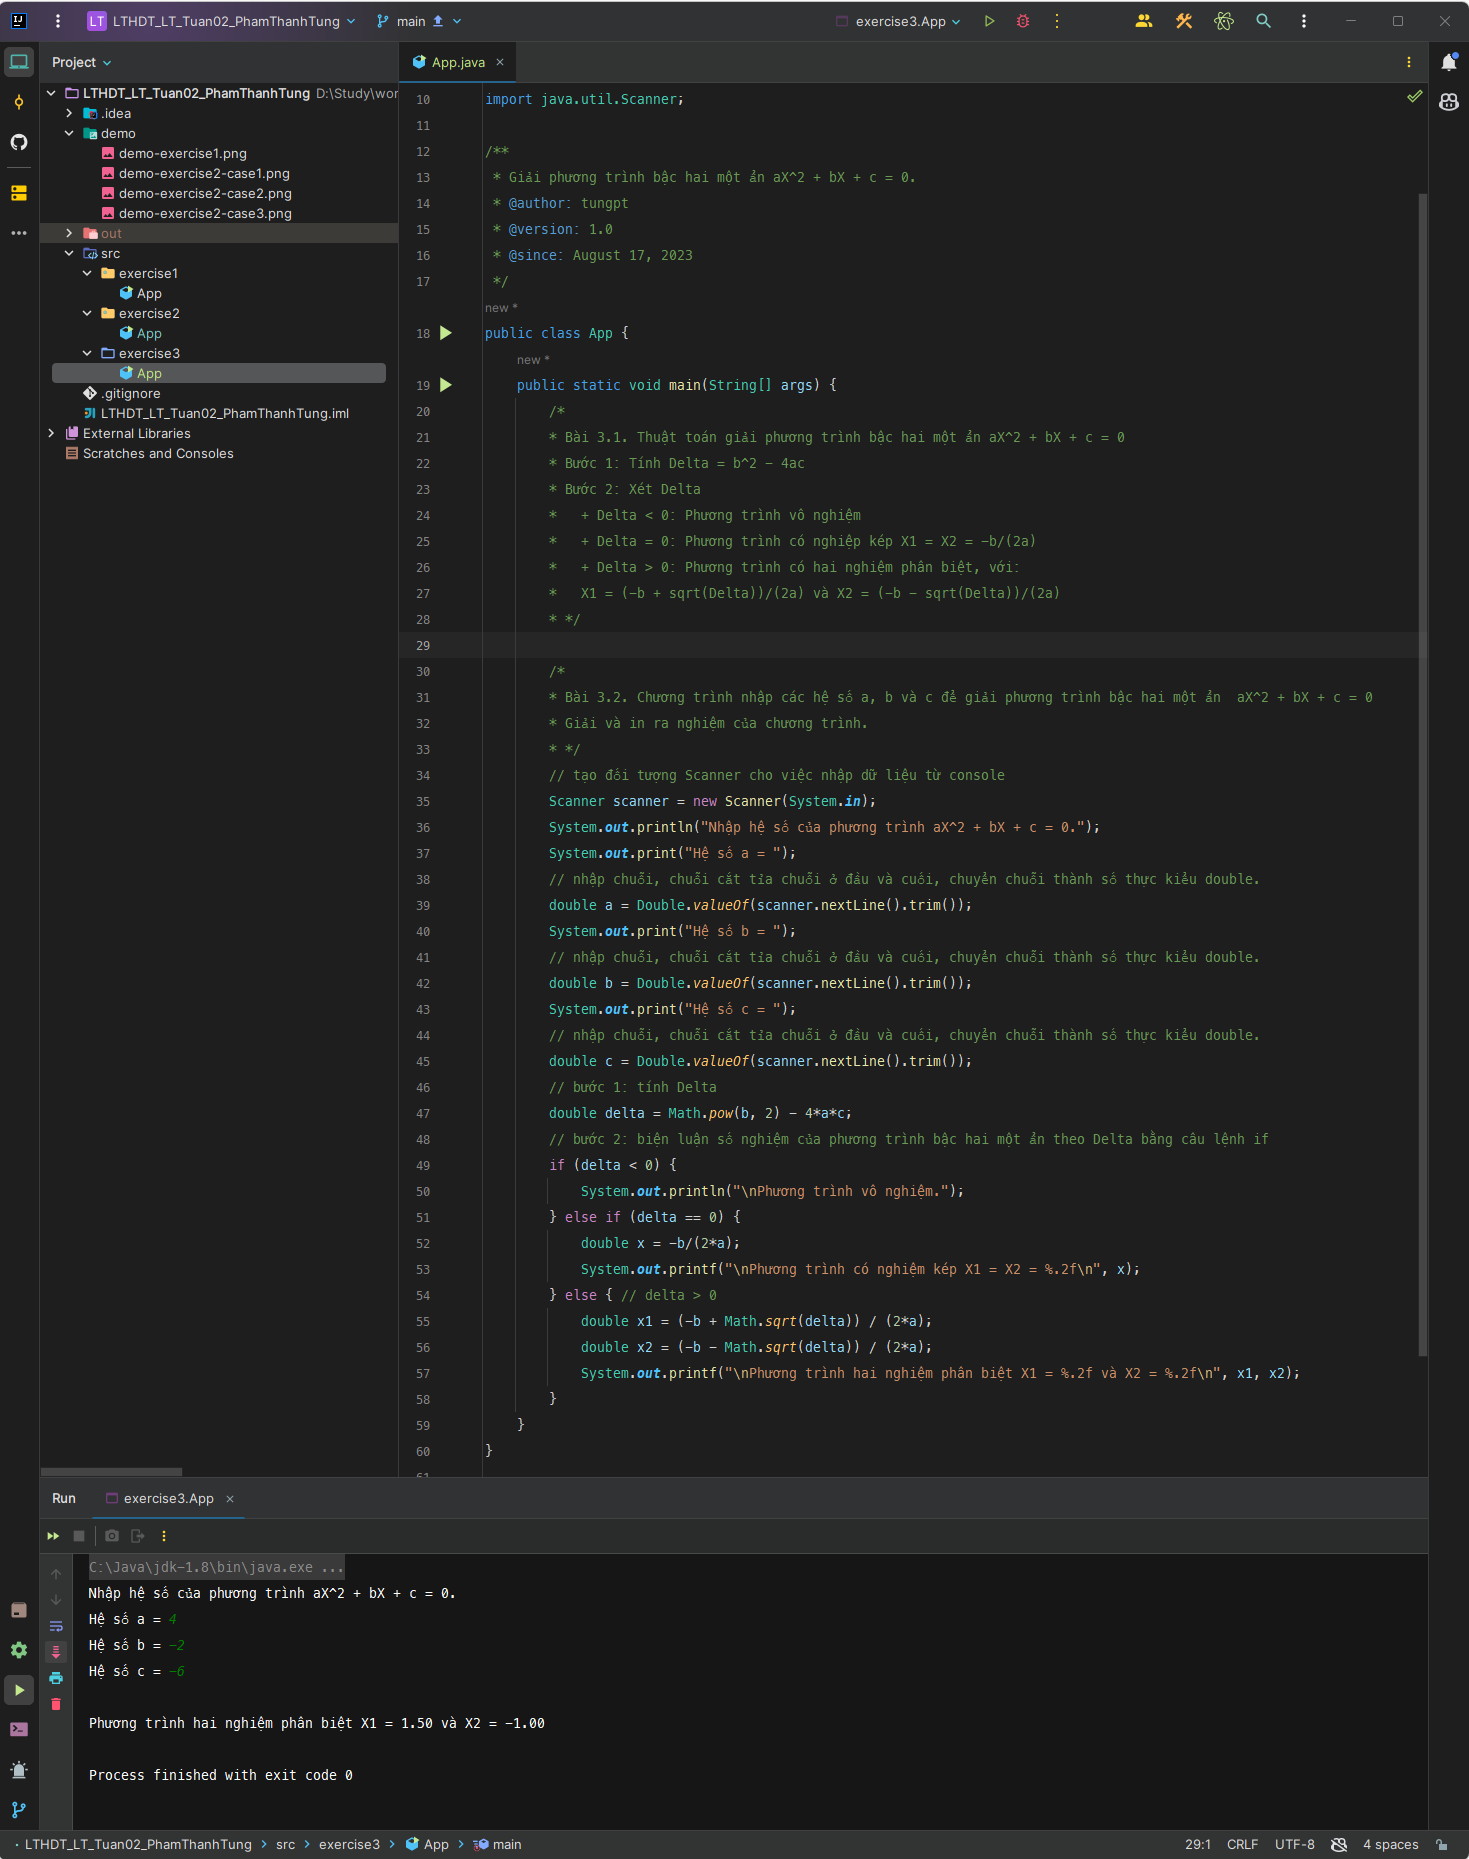
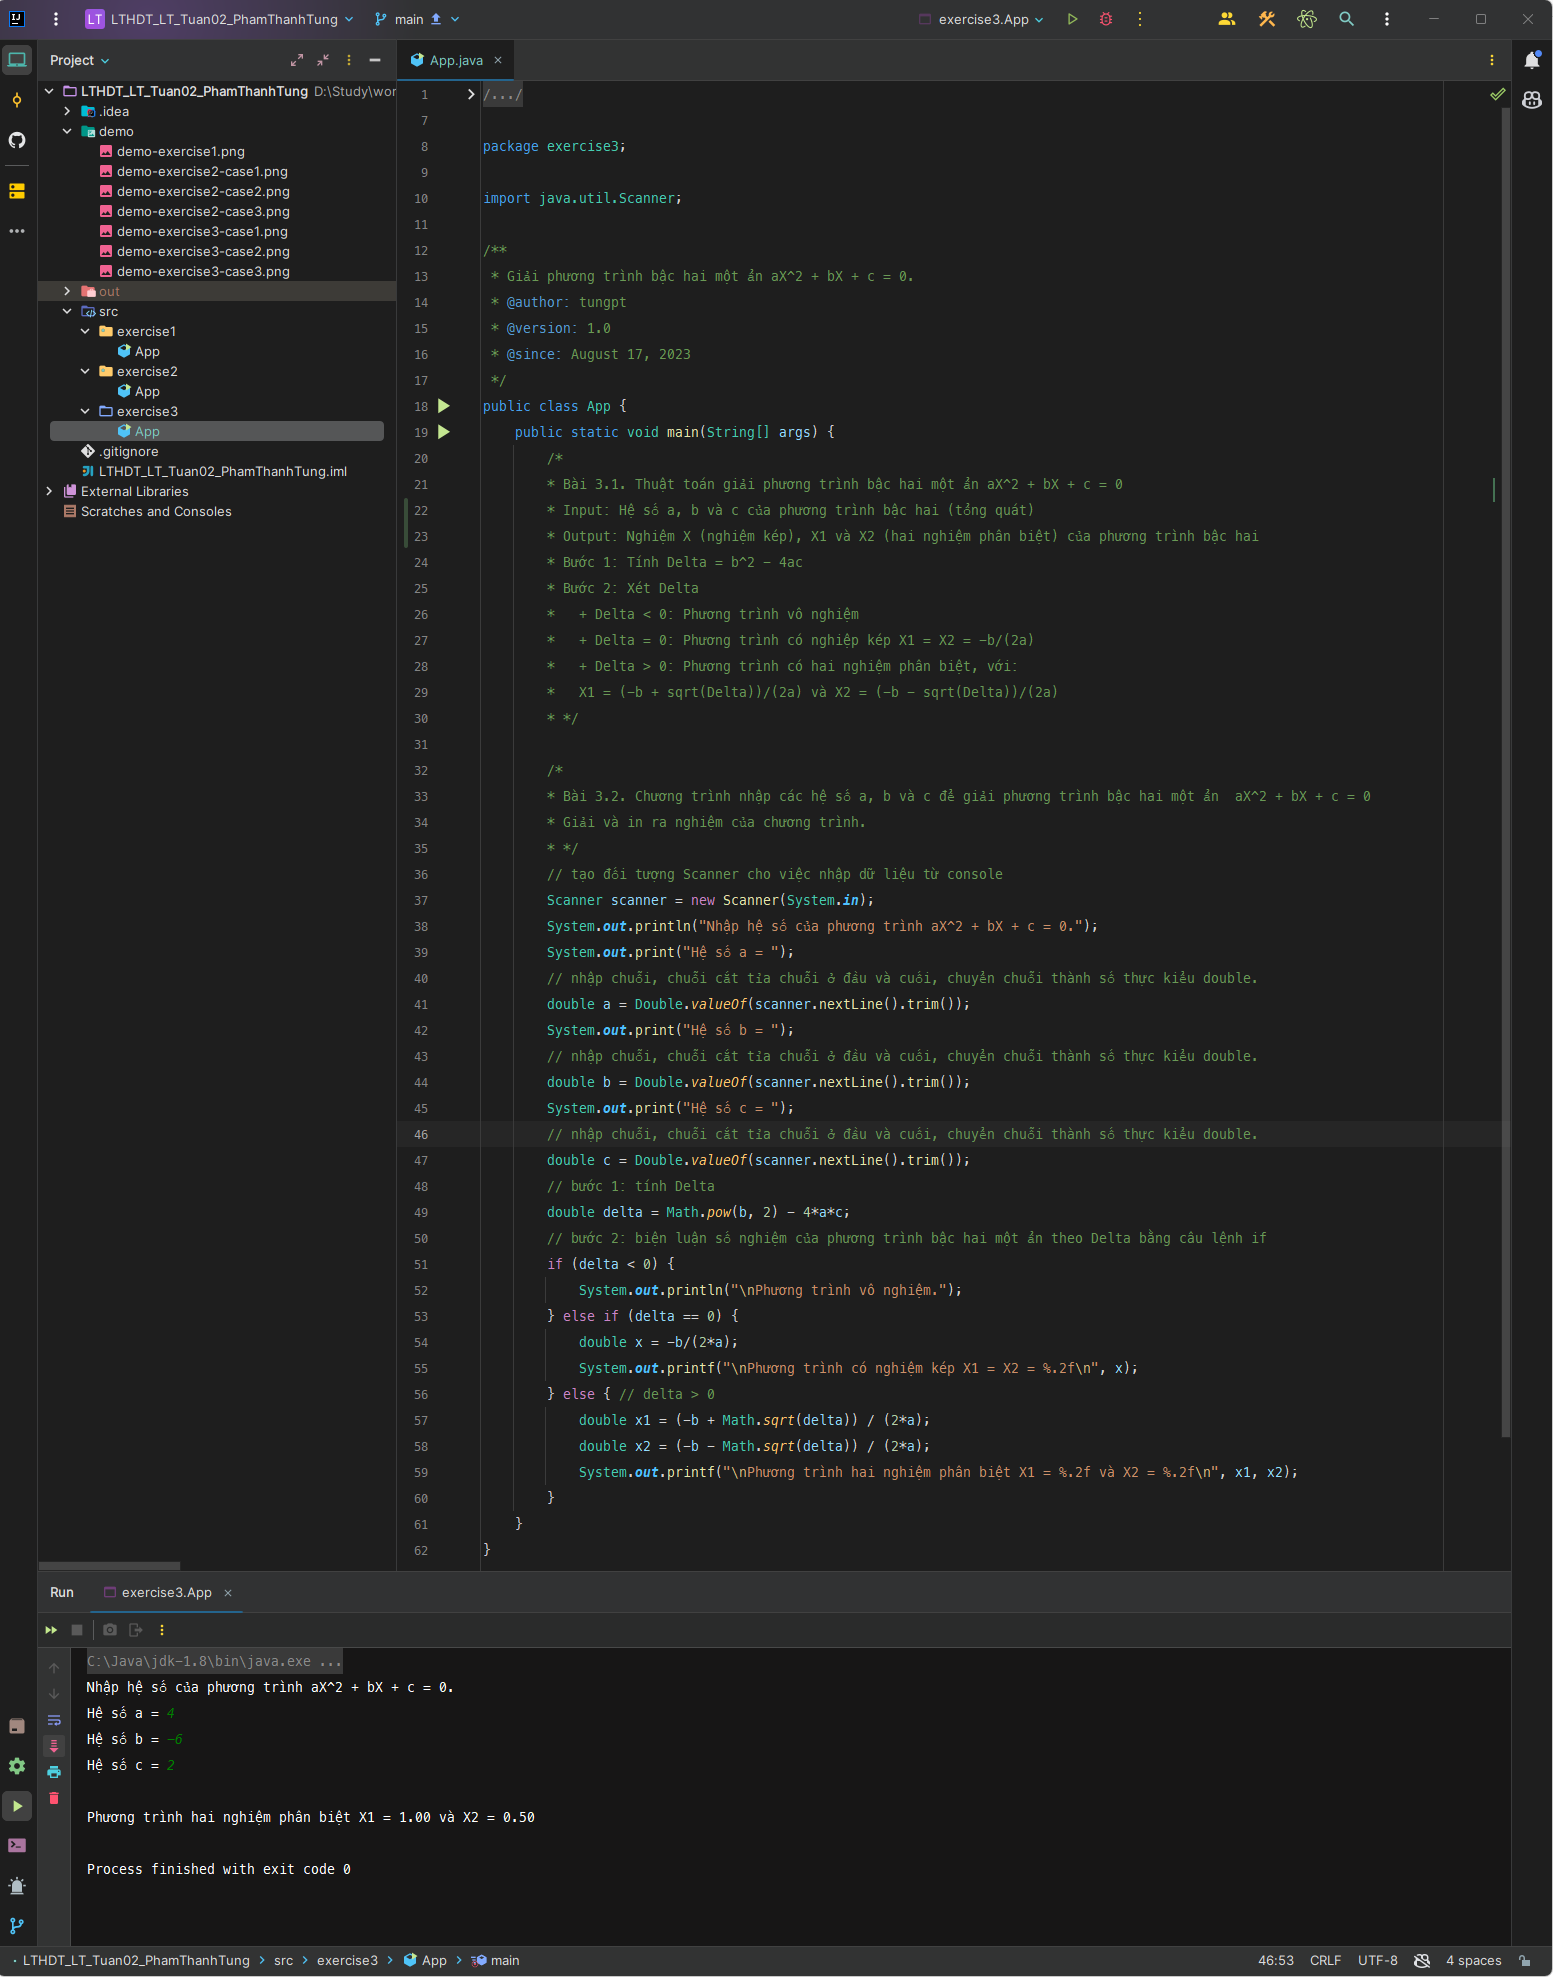
LTHDT-LT-Tuan02. Hoan thanh Bai 4.

diff --git a/LTHDT_LT_Tuan02_PhamThanhTung/src/exercise4/App.java b/LTHDT_LT_Tuan02_PhamThanhTung/src/exercise4/App.java
@@ -1,0 +1,80 @@
+/*
+ *  @ (#) App.java      1.0 17/08/2023
+ *
+ *  Copyright (c) 2023 IUH.
+ *  All rights reserved.
+ */
+
+package exercise4;
+
+import java.util.Scanner;
+
+/**
+ * Chương trình tính tiền điện.
+ * @author: tungpt
+ * @version: 1.0
+ * @since: August 17, 2023
+ */
+public class App {
+    public static void main(String[] args) {
+        /*
+         * Bài 4.1. Thuật toán tính tiền điện phải trả trong một tháng.
+         * Input:
+         *      + Số điện năng tháng trước (số cũ) oldQuantity
+         *      + số điện năng hiện tại (số mới) newQuantity
+         * Output: Tiền điện phải trả amount
+         * Bước 1: Tính lượng điện đã tiêu thụ consumedQuantity = newQuantity - oldQuantity
+         * Bước 2: Xét consumedQuantity để chọn đơn giá unitPrice theo từng mức tương ứng:
+         *      + Nếu 0 <= consumedQuantity <= 50 thì unitPrice = 1.678
+         *      + Nếu 51 <= consumedQuantity <= 100 thì unitPrice = 1.734
+         *      + Nếu 101 <= consumedQuantity <= 200 thì unitPrice = 2.014
+         *      + Nếu 201 <= consumedQuantity <= 300 thì unitPrice = 2.536
+         *      + Nếu 301 <= consumedQuantity <= 400 thì unitPrice = 2.834
+         *      + Nếu consumedQuantity >= 401 thì unitPrice = 2.927
+         *      + Nếu consumedQuantity < 0 thì unitPrice = -1
+         * Bước 3: Xét unitPrice:
+         *      + Nếu unitPrice < 0 thì in ra thông báo "Không thể tính tiền điện!".
+         *      + Nếu unitPrice >= 0 thì tính tiền điện theo công thức: amount = consumedQuantity * unitPrice
+         * */
+
+        /*
+         * Bài 4.2. Chương trình tiền điện phải trả trong một tháng.
+         * */
+        // tạo đối tượng Scanner cho việc nhập dữ liệu từ console
+        Scanner scanner = new Scanner(System.in);
+        System.out.println("Nhập chỉ số điện tháng trước và tháng này.");
+        System.out.print("Chỉ số điện tháng trước: ");
+        // nhập chuỗi, chuỗi cắt tỉa chuỗi ở đầu và cuối, chuyển chuỗi thành số thực kiểu double.
+        int oldQuantity = Integer.valueOf(scanner.nextLine().trim());
+        System.out.print("Chỉ số điện tháng này: ");
+        // nhập chuỗi, chuỗi cắt tỉa chuỗi ở đầu và cuối, chuyển chuỗi thành số thực kiểu double.
+        int newQuantity = Integer.valueOf(scanner.nextLine().trim());
+
+        // bước 1: Tính lượng điện đã tiêu thụ
+        int consumedQuantity = newQuantity - oldQuantity;
+        // bước 2: Xét consumedQuantity để chọn đơn giá unitPrice theo từng mức tương ứng bằng câu lệnh if
+        double unitPrice;
+        if ((consumedQuantity >= 0) && (consumedQuantity <= 50)) {
+            unitPrice = 1.678;
+        } else if ((consumedQuantity >= 51) && (consumedQuantity <= 100)) {
+            unitPrice = 1.734;
+        } else if ((consumedQuantity >= 101) && (consumedQuantity <= 200)) {
+            unitPrice = 2.014;
+        } else if ((consumedQuantity >= 201) && (consumedQuantity <= 300)) {
+            unitPrice = 2.536;
+        } else if ((consumedQuantity >= 301) && (consumedQuantity <= 400)) {
+            unitPrice = 2.834;
+        } else if (consumedQuantity >= 401) {
+            unitPrice = 2.927;
+        } else {
+            unitPrice = -1;
+        }
+        // bước 3: Xét unitPrice
+        if (unitPrice < 0) {
+            System.out.println("Không thể tính tiền điện!");
+        } else {
+            double amount = consumedQuantity * unitPrice;
+            System.out.printf("Tiền điện phải trả cho %d số điện là %.3f VND.\n", consumedQuantity, amount);
+        }
+    }
+}

diff --git a/LTHDT_LT_Tuan02_PhamThanhTung/src/exercise3/App.java b/LTHDT_LT_Tuan02_PhamThanhTung/src/exercise3/App.java
@@ -19,6 +19,8 @@ public class App {
     public static void main(String[] args) {
         /*
         * Bài 3.1. Thuật toán giải phương trình bậc hai một ẩn aX^2 + bX + c = 0
+        * Input: Hệ số a, b và c của phương trình bậc hai (tổng quát)
+        * Output: Nghiệm X (nghiệm kép), X1 và X2 (hai nghiệm phân biệt) của phương trình bậc hai
         * Bước 1: Tính Delta = b^2 - 4ac
         * Bước 2: Xét Delta
         *   + Delta < 0: Phương trình vô nghiệm
